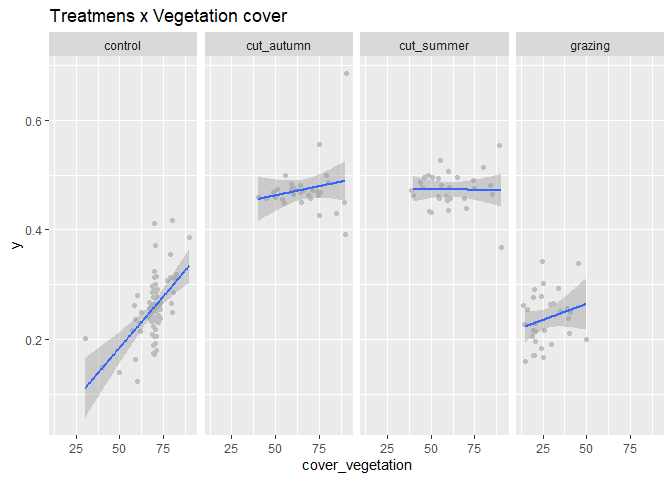
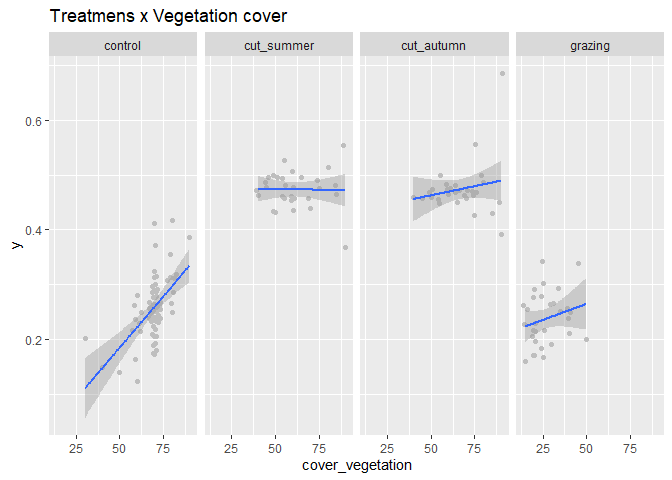
Relevel treatment levels

diff --git a/R/model_check_height.md b/R/model_check_height.md
@@ -66,8 +66,12 @@ library(emmeans)
 ``` r
 sites <- read_csv(
   here("data", "processed", "data_processed_sites.csv"),
-  col_names = TRUE, na = c("", "na", "NA"), col_types = cols(
-    .default = "?"
+  col_names = TRUE, na = c("", "na", "NA"), col_types = 
+    cols(
+      .default = "?",
+      treatment = col_factor(
+        levels = c("control", "cut_summer", "cut_autumn", "grazing")
+      )
     )
   ) %>%
   rename(y = CWM_Height)
@@ -113,10 +117,10 @@ quantile(sites$y, probs = c(0.05, 0.95), na.rm = TRUE)
 
     ## # A tibble: 4 × 2
     ##   treatment      n
-    ##   <chr>      <int>
+    ##   <fct>      <int>
     ## 1 control       68
-    ## 2 cut_autumn    30
-    ## 3 cut_summer    30
+    ## 2 cut_summer    30
+    ## 3 cut_autumn    30
     ## 4 grazing       30
 
 ![](model_check_height_files/figure-gfm/outliers-1.png)<!-- -->
@@ -169,20 +173,12 @@ simulation_output_2 <- simulateResiduals(m_2, plot = TRUE)
 
 ``` r
 plotResiduals(simulation_output_1$scaledResiduals, sites$treatment)
-## Warning in ensurePredictor(simulationOutput, form): DHARMa:::ensurePredictor:
-## character string was provided as predictor. DHARMa has converted to factor
-## automatically. To remove this warning, please convert to factor before
-## attempting to plot with DHARMa.
 ```
 
 ![](model_check_height_files/figure-gfm/dharma_single-1.png)<!-- -->
 
 ``` r
 plotResiduals(simulation_output_2$scaledResiduals, sites$treatment)
-## Warning in ensurePredictor(simulationOutput, form): DHARMa:::ensurePredictor:
-## character string was provided as predictor. DHARMa has converted to factor
-## automatically. To remove this warning, please convert to factor before
-## attempting to plot with DHARMa.
 ```
 
 ![](model_check_height_files/figure-gfm/dharma_single-2.png)<!-- -->
